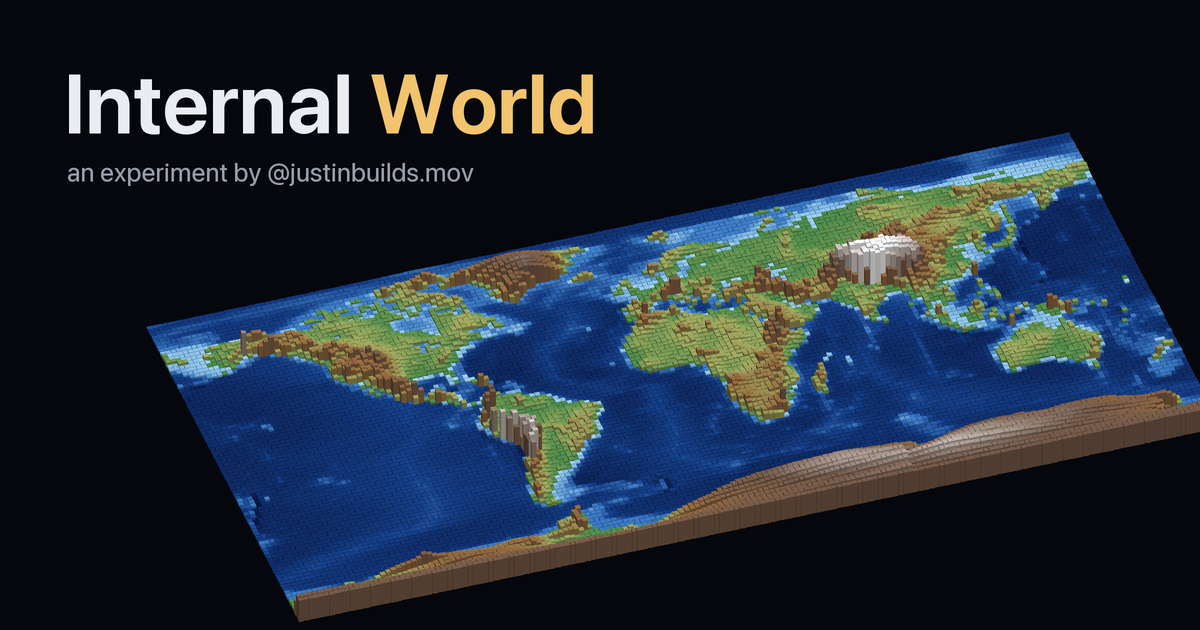
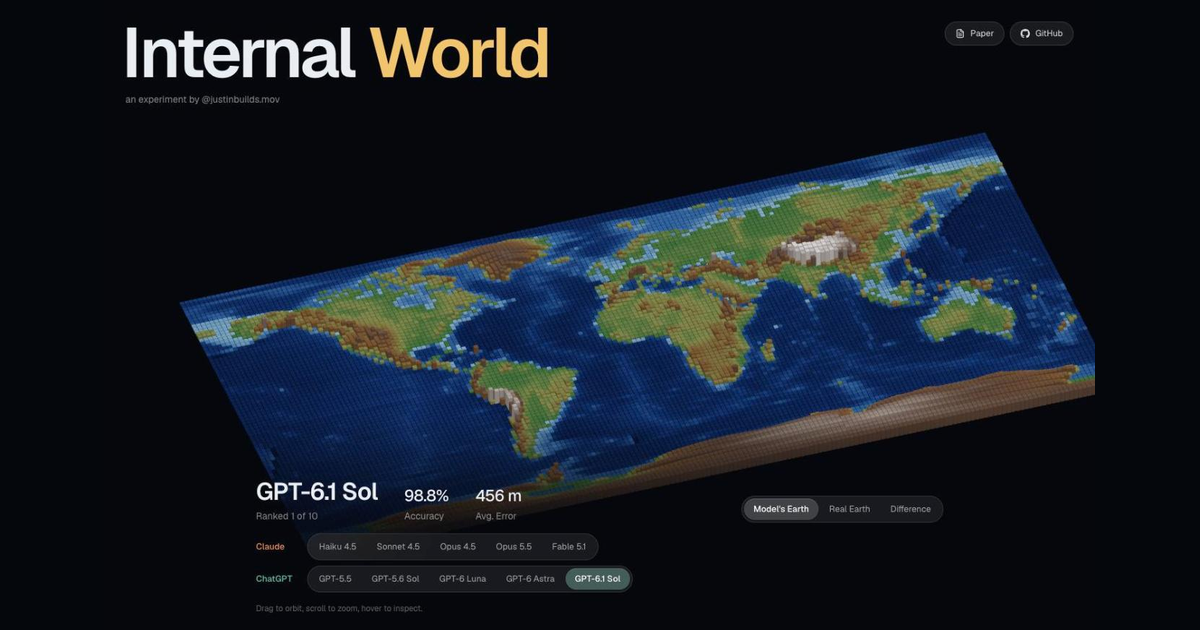
Responsive layout, link preview, GitHub link

diff --git a/site/app/page.tsx b/site/app/page.tsx
@@ -7,8 +7,8 @@ import { Segmented } from "@/components/ui/segmented";
 import { FileText } from "lucide-react";
 import { fmt, pct, type Mode, type Model, type Results } from "@/lib/world";
 
-// Paper = the write-up below the map. TODO: GitHub link once the repo is public.
-const LINKS = { paper: "#paper", github: "#" };
+// Paper = the write-up below the map.
+const LINKS = { paper: "#paper", github: "https://github.com/justinbuildsmov/internal-world" };
 
 const FAMILY = { claude: "Claude", gpt: "GPT" } as const;
 const FAMILY_NAME = { claude: "Claude", gpt: "ChatGPT" } as const;
@@ -63,7 +63,7 @@ export default function Home() {
           <div className="text-sm text-white/45 mt-3">an experiment by @justinbuilds.mov</div>
         </div>
 
-        <nav className="absolute top-4 right-4 sm:top-8 sm:right-8 z-10 flex gap-2">
+        <nav className="absolute left-4 top-[100px] sm:left-auto sm:top-8 sm:right-8 z-10 flex gap-2">
           <a href={LINKS.paper} className="flex h-9 items-center gap-2 rounded-full bg-white/[.06] ring-1 ring-inset ring-white/[.1] backdrop-blur-xl px-4 text-[13px] text-white/80 hover:text-white hover:bg-white/[.1] transition">
             <FileText className="size-3.5" /> Paper
           </a>
@@ -78,18 +78,18 @@ export default function Home() {
             real={truth[hover.i * g.cols + hover.j]} lat={g.lat0 - hover.i * g.step} lon={g.lon0 + hover.j * g.step} />
         )}
 
-        <div className="absolute inset-x-0 bottom-0 p-3 sm:p-6 bg-gradient-to-t from-[#05070c] via-[#05070c]/85 to-transparent pt-20">
-          <div className="mx-auto max-w-5xl flex flex-col gap-4">
-            <div className="flex flex-wrap items-end justify-between gap-4">
+        <div className="absolute inset-x-0 bottom-0 px-4 pb-4 pt-24 sm:px-6 sm:pb-6 bg-gradient-to-t from-[#05070c] via-[#05070c]/85 to-transparent">
+          <div className="mx-auto max-w-5xl flex flex-col gap-3 sm:gap-4">
+            <div className="flex flex-col gap-3 md:flex-row md:items-end md:justify-between md:gap-4">
               <Stats model={model} total={ranked.length} mode={mode} />
-              <Segmented id="mode" value={mode} onChange={(v) => setMode(v as Mode)}
+              <Segmented id="mode" value={mode} onChange={(v) => setMode(v as Mode)} className="w-full md:w-auto" stretch
                 items={[{ value: "model", label: "Model's Earth" }, { value: "real", label: "Real Earth" }, { value: "error", label: "Difference" }]} />
             </div>
             <div className="flex flex-col gap-2">
               {(Object.keys(FAMILY) as (keyof typeof FAMILY)[]).map((f) => (
-                <div key={f} className="flex items-center gap-3 min-w-0">
-                  <span className="w-16 shrink-0 text-[13px] font-medium" style={{ color: FAMILY_COLOR[f] }}>{FAMILY_NAME[f]}</span>
-                  <Segmented id={`fam-${f}`} accent={FAMILY_COLOR[f]} className="max-w-full overflow-x-auto"
+                <div key={f} className="flex flex-col gap-1.5 sm:flex-row sm:items-center sm:gap-3 min-w-0">
+                  <span className="sm:w-16 shrink-0 text-xs sm:text-[13px] font-medium" style={{ color: FAMILY_COLOR[f] }}>{FAMILY_NAME[f]}</span>
+                  <Segmented id={`fam-${f}`} accent={FAMILY_COLOR[f]} scroll
                     value={mode !== "real" ? sel : null} onChange={(v) => pick(v)}
                     items={data.models.filter((m) => m.family === f).map((m) => ({
                       value: m.id,
@@ -100,7 +100,10 @@ export default function Home() {
                 </div>
               ))}
             </div>
-            <div className="text-xs text-white/30 hidden sm:block">Drag to orbit, scroll to zoom, hover to inspect.</div>
+            <div className="text-xs text-white/30">
+              <span className="hidden sm:inline">Drag to orbit, scroll to zoom, hover to inspect.</span>
+              <span className="sm:hidden">Drag to orbit, pinch to zoom, tap to inspect.</span>
+            </div>
           </div>
         </div>
       </section>
@@ -229,7 +232,7 @@ function Stats({ model, total, mode }: { model: Model; total: number; mode: Mode
     </div>
   );
   return (
-    <div className="flex items-end gap-6 sm:gap-10">
+    <div className="flex items-end gap-5 sm:gap-10">
       <div>
         <div className="text-2xl sm:text-4xl font-semibold tracking-[-0.03em] leading-none">{model.label}</div>
         <div className="text-sm text-white/45 mt-2">Ranked {model.rank} of {total}</div>
@@ -242,9 +245,9 @@ function Stats({ model, total, mode }: { model: Model; total: number; mode: Mode
 
 function Stat({ v, k }: { v: string; k: string }) {
   return (
-    <div className="hidden sm:block">
-      <div className="text-2xl font-medium tabular-nums leading-none tracking-[-0.02em]">{v}</div>
-      <div className="text-sm text-white/45 mt-2">{k}</div>
+    <div>
+      <div className="text-lg sm:text-2xl font-medium tabular-nums leading-none tracking-[-0.02em]">{v}</div>
+      <div className="text-xs sm:text-sm text-white/45 mt-1.5 sm:mt-2">{k}</div>
     </div>
   );
 }
@@ -254,14 +257,18 @@ function Stat({ v, k }: { v: string; k: string }) {
 function Tooltip({ hover, label, said, real, lat, lon }: {
   hover: NonNullable<Hover>; label: string; said: number | null; real: number; lat: number; lon: number;
 }) {
-  const flip = typeof window !== "undefined" && hover.x > window.innerWidth - 260;
+  const vw = typeof window !== "undefined" ? window.innerWidth : 1200;
+  const vh = typeof window !== "undefined" ? window.innerHeight : 800;
+  const flip = hover.x > vw - 260;
+  const up = hover.y > vh - 200;
   const off = said == null ? null : said - real;
   const Row = ({ k, v }: { k: string; v: string }) => (
     <div className="flex justify-between gap-6"><span className="text-white/50">{k}</span><span className="tabular-nums text-white">{v}</span></div>
   );
   return (
     <div className="pointer-events-none absolute z-20 w-[220px] rounded-xl bg-[rgba(20,22,28,.92)] backdrop-blur-xl ring-1 ring-white/10 shadow-[0_12px_32px_rgba(0,0,0,.5)] p-3.5 text-[13px] leading-6"
-      style={{ left: hover.x, top: hover.y, transform: flip ? "translate(calc(-100% - 16px), 16px)" : "translate(16px, 16px)" }}>
+      style={{ left: Math.min(hover.x, vw - 16), top: hover.y,
+        transform: `translate(${flip ? "calc(-100% - 16px)" : "16px"}, ${up ? "calc(-100% - 16px)" : "16px"})` }}>
       <div className="text-xs text-white/45 mb-1.5 tabular-nums">
         {Math.abs(lat)}° {lat >= 0 ? "N" : "S"}, {Math.abs(lon)}° {lon >= 0 ? "E" : "W"}
       </div>

diff --git a/site/components/ui/segmented.tsx b/site/components/ui/segmented.tsx
@@ -1,6 +1,6 @@
 "use client";
 
-import { useState } from "react";
+import { useEffect, useRef, useState } from "react";
 import { motion } from "framer-motion";
 import { cn } from "@/lib/utils";
 
@@ -17,22 +17,33 @@ export type SegmentedItem = {
 
 const spring = { type: "spring", stiffness: 520, damping: 38, mass: 0.7 } as const;
 
-export function Segmented({ id, items, value, onChange, accent, className }: {
+export function Segmented({ id, items, value, onChange, accent, className, stretch, scroll }: {
   id: string;                  // unique per control (scopes the shared layout animation)
   items: SegmentedItem[];
   value: string | null;
   onChange: (v: string) => void;
   accent?: string;             // tint for the selected thumb
   className?: string;
+  stretch?: boolean;           // items share the full width (use with w-full)
+  scroll?: boolean;            // too many items for a phone: swipe sideways instead of wrapping
 }) {
+  const ref = useRef<HTMLDivElement>(null);
+  // Keep the selected item in view when the row scrolls.
+  useEffect(() => {
+    if (!scroll || !ref.current || !value) return;
+    const el = ref.current.querySelector<HTMLElement>(`[data-value="${CSS.escape(value)}"]`);
+    el?.scrollIntoView({ block: "nearest", inline: "nearest", behavior: "smooth" });
+  }, [scroll, value]);
   const [hover, setHover] = useState<string | null>(null);
   return (
     <div
+      ref={ref}
       role="radiogroup"
       onMouseLeave={() => setHover(null)}
       className={cn(
-        "relative inline-flex items-center gap-0.5 rounded-full p-1",
+        "relative inline-flex items-center gap-0.5 rounded-full p-1 max-w-full",
         "bg-white/[.06] ring-1 ring-inset ring-white/[.08] backdrop-blur-xl",
+        scroll && "overflow-x-auto overscroll-x-contain [scrollbar-width:none] [&::-webkit-scrollbar]:hidden",
         className,
       )}
     >
@@ -41,13 +52,15 @@ export function Segmented({ id, items, value, onChange, accent, className }: {
         return (
           <button
             key={it.value}
+            data-value={it.value}
             role="radio"
             aria-checked={selected}
             disabled={it.disabled}
             onMouseEnter={() => setHover(it.value)}
             onClick={() => onChange(it.value)}
             className={cn(
-              "relative h-8 rounded-full px-3.5 text-[13px] whitespace-nowrap transition-colors duration-150",
+              "relative h-8 shrink-0 rounded-full px-3 sm:px-3.5 text-[12.5px] sm:text-[13px] whitespace-nowrap transition-colors duration-150",
+              stretch && "flex-1 md:flex-none",
               "outline-none focus-visible:ring-2 focus-visible:ring-white/40",
               "disabled:cursor-default disabled:opacity-30",
               selected ? "text-white font-medium" : "text-white/55 hover:text-white/85",

diff --git a/site/components/voxel-world.tsx b/site/components/voxel-world.tsx
@@ -113,7 +113,9 @@ export default function VoxelWorld({ rows, cols, elev, truth, mode, stops, onHov
       const aspect = w / h;
       const half = aspect > 1.6 ? 58 : 105 / aspect;
       // On wide screens, nudge the world right and down so the title has room.
-      const sx = aspect > 1.2 ? half * aspect * 0.1 : 0, sy = aspect > 1.2 ? half * 0.1 : 0;
+      // On phones (portrait) lift it instead, clear of the taller control panel.
+      const sx = aspect > 1.2 ? half * aspect * 0.1 : 0;
+      const sy = aspect > 1.2 ? half * 0.1 : aspect < 0.9 ? -half * 0.14 : 0;
       camera.left = -half * aspect - sx; camera.right = half * aspect - sx;
       camera.top = half + sy; camera.bottom = -half + sy;
       camera.updateProjectionMatrix();
@@ -154,6 +156,7 @@ export default function VoxelWorld({ rows, cols, elev, truth, mode, stops, onHov
     };
     const onLeave = () => { hoverI = -1; hoverCb.current?.(null); };
     renderer.domElement.addEventListener("pointermove", onMove);
+    renderer.domElement.addEventListener("pointerdown", onMove);
     renderer.domElement.addEventListener("pointerleave", onLeave);
 
     const col = mesh.instanceColor.array as Float32Array;
@@ -199,6 +202,7 @@ export default function VoxelWorld({ rows, cols, elev, truth, mode, stops, onHov
       cancelAnimationFrame(raf);
       ro.disconnect();
       renderer.domElement.removeEventListener("pointermove", onMove);
+      renderer.domElement.removeEventListener("pointerdown", onMove);
       renderer.domElement.removeEventListener("pointerleave", onLeave);
       controls.dispose();
       geo.dispose(); mat.dispose(); renderer.dispose();

diff --git a/site/app/layout.tsx b/site/app/layout.tsx
@@ -6,9 +6,12 @@ const geistSans = Geist({ variable: "--font-geist-sans", subsets: ["latin"] });
 const geistMono = Geist_Mono({ variable: "--font-geist-mono", subsets: ["latin"] });
 
 export const metadata: Metadata = {
+  metadataBase: new URL("https://internal-world.justinbuilds.mov"),
   title: "Internal World",
   description:
     "We asked AI models the height of 16,200 points on Earth, from memory alone. This is the planet they carry inside.",
+  openGraph: { title: "Internal World", description: "What does the Earth look like inside an AI?", type: "website" },
+  twitter: { card: "summary_large_image", title: "Internal World", description: "What does the Earth look like inside an AI?" },
 };
 
 export default function RootLayout({ children }: LayoutProps<"/">) {
